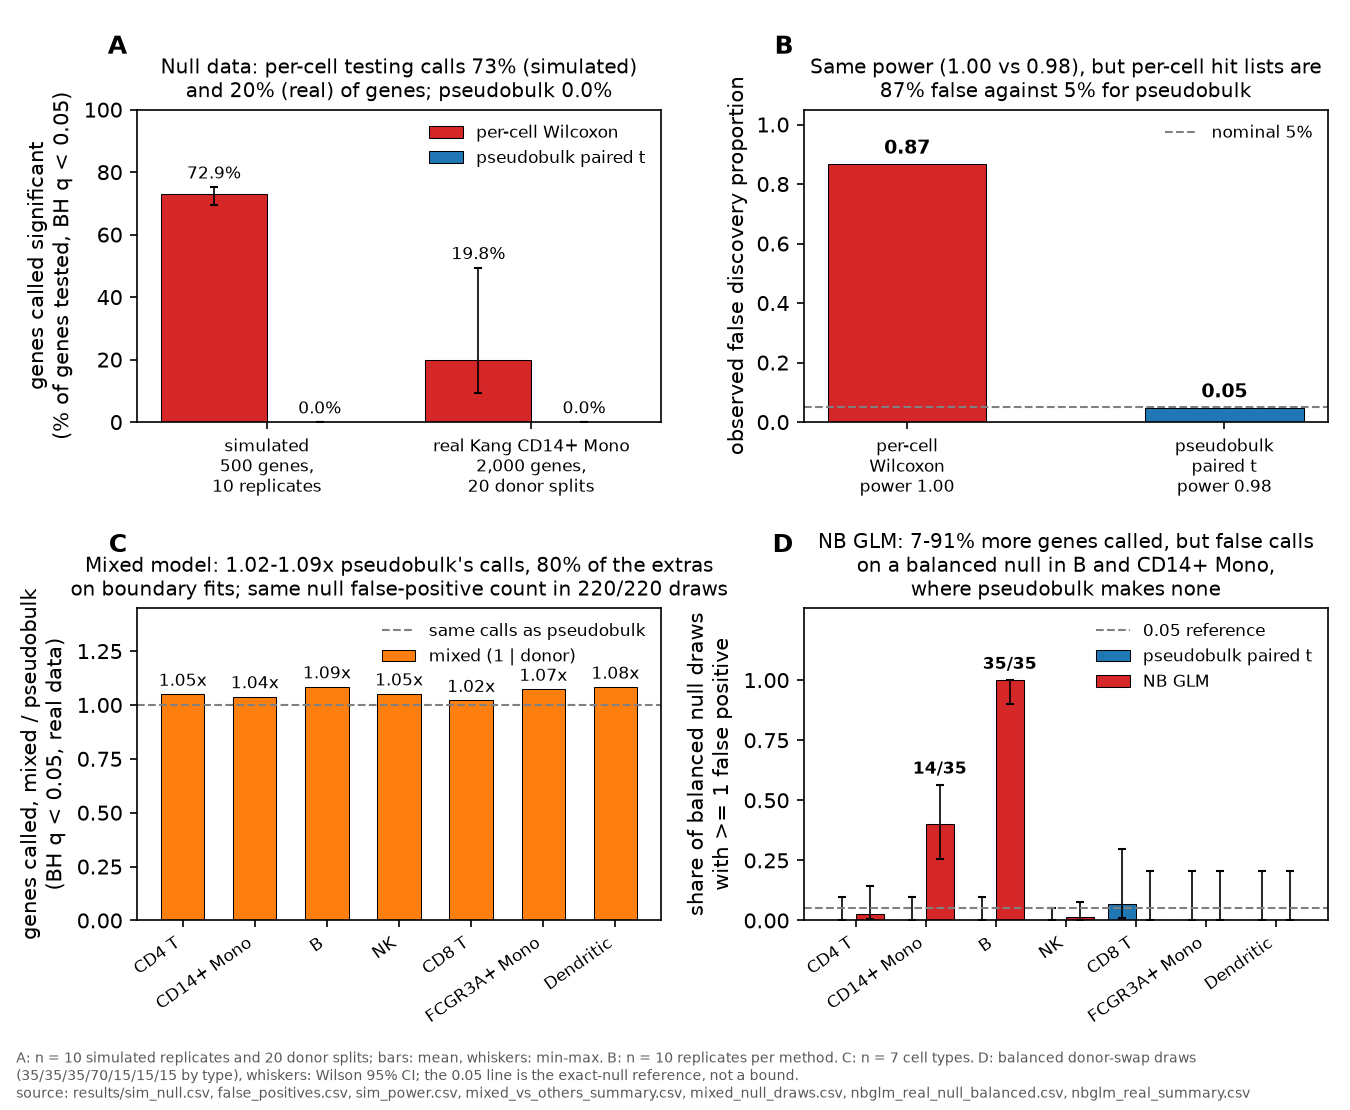
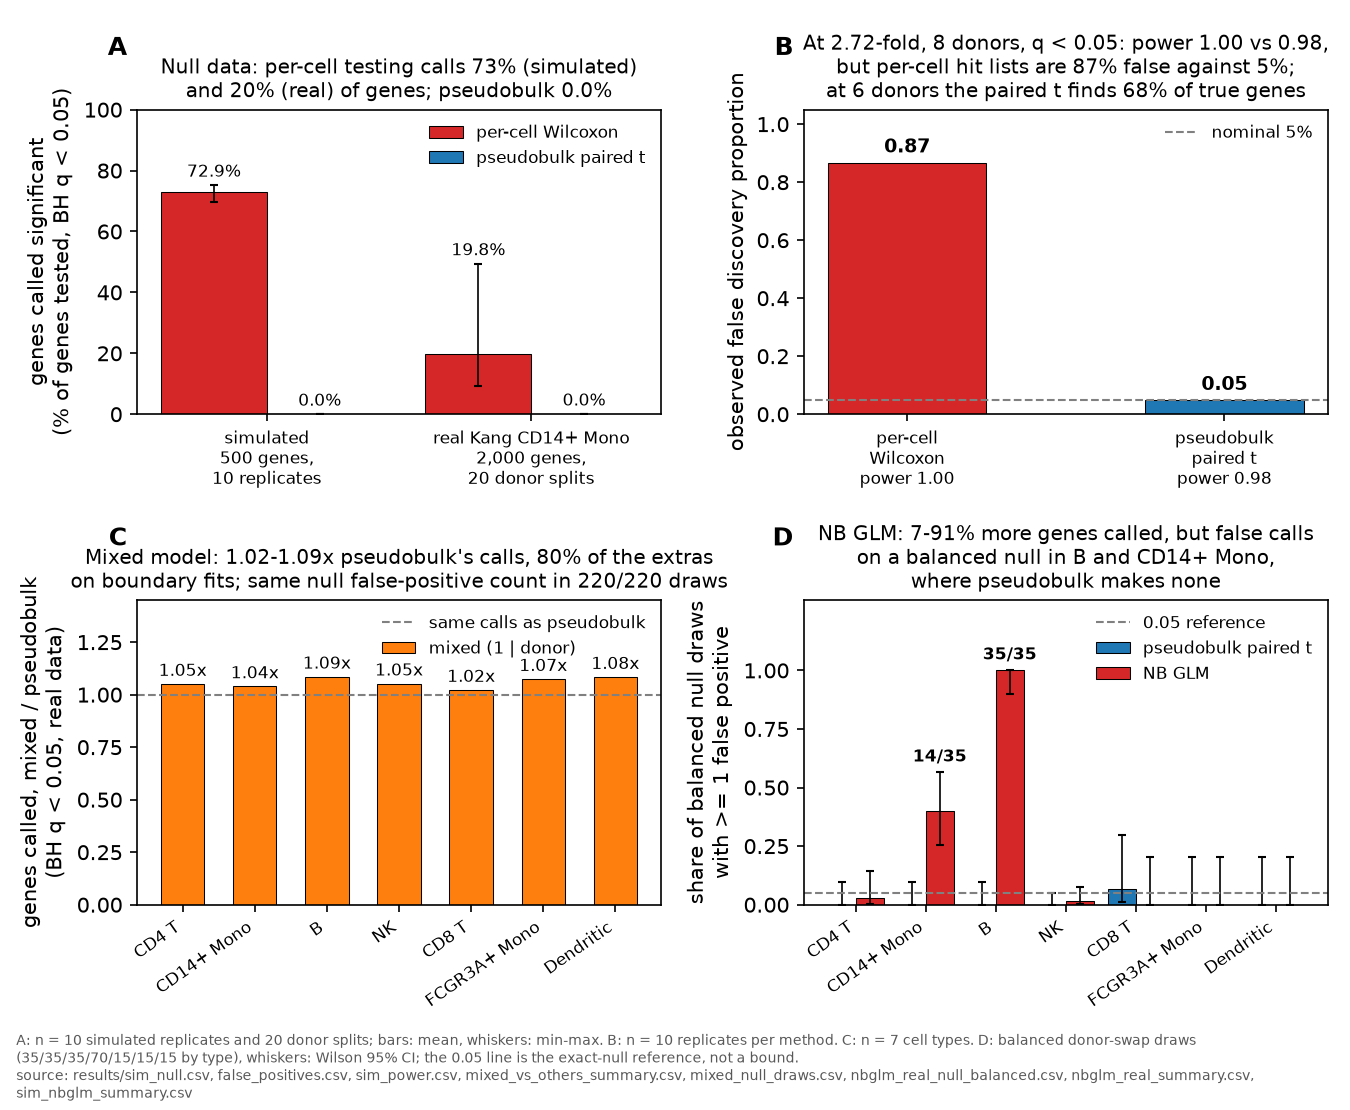
at_a_glance panel B: state the one point power was measured at
The title said "Same power (1.00 vs 0.98)" with no effect size, donor count
or threshold. It now reads "At 2.72-fold, 8 donors, q < 0.05: power 1.00 vs
0.98" and adds the paired t's power at 6 donors (68%) read from
results/sim_nbglm_summary.csv, so the panel cannot be read as a power
curve. No plotted value changed; the PNG was regenerated from committed
CSVs and the footer lists the extra source file.

diff --git a/scripts/make_figures.py b/scripts/make_figures.py
@@ -996,8 +996,18 @@ def fig_at_a_glance():
     ax.legend(frameon=False, fontsize=8, loc="upper right")
     _panel_letter(ax, "A")
 
-    # B: power and false discovery proportion
+    # B: power and false discovery proportion. The power point is one effect size
+    # and one donor count; the title says so and quotes the paired t at 6 donors
+    # from the simulated donor grid, so the panel cannot be read as a power curve.
     ax = axes[0, 1]
+    six_donor_clause = ""
+    grid_path = RESULTS / "sim_nbglm_summary.csv"
+    if grid_path.exists():
+        grid = pd.read_csv(grid_path)
+        six = grid[(grid.donors == 6) & (grid.method == "paired_t_logcpm")]
+        if len(six) == 1:
+            six_donor_clause = (f";\nat 6 donors the paired t finds "
+                                f"{six.power_mean.iloc[0]:.0%} of true genes")
     agg = power.groupby("method")[["power", "fdp"]].mean()
     order = ["per_cell", "pseudobulk"]
     names = {"per_cell": "per-cell\nWilcoxon", "pseudobulk": "pseudobulk\npaired t"}
@@ -1013,10 +1023,10 @@ def fig_at_a_glance():
                        fontsize=8)
     ax.set_ylim(0, 1.05)
     ax.set(ylabel="observed false discovery proportion",
-           title=f"Same power ({agg.at['per_cell', 'power']:.2f} vs "
-                 f"{agg.at['pseudobulk', 'power']:.2f}), but per-cell hit lists are\n"
+           title=f"At 2.72-fold, 8 donors, q < 0.05: power {agg.at['per_cell', 'power']:.2f} vs "
+                 f"{agg.at['pseudobulk', 'power']:.2f},\nbut per-cell hit lists are "
                  f"{agg.at['per_cell', 'fdp']:.0%} false against "
-                 f"{agg.at['pseudobulk', 'fdp']:.0%} for pseudobulk")
+                 f"{agg.at['pseudobulk', 'fdp']:.0%}" + six_donor_clause)
     ax.title.set_fontsize(9.5)
     ax.legend(frameon=False, fontsize=8, loc="upper right")
     _panel_letter(ax, "B")
@@ -1100,7 +1110,7 @@ def fig_at_a_glance():
           "Wilson 95% CI; the 0.05 line is the exact-null reference, not a bound.\n"
           "source: results/sim_null.csv, false_positives.csv, sim_power.csv, "
           "mixed_vs_others_summary.csv, mixed_null_draws.csv, "
-          "nbglm_real_null_balanced.csv, nbglm_real_summary.csv")
+          "nbglm_real_null_balanced.csv, nbglm_real_summary.csv, sim_nbglm_summary.csv")
 
 
 FIGURES = {
